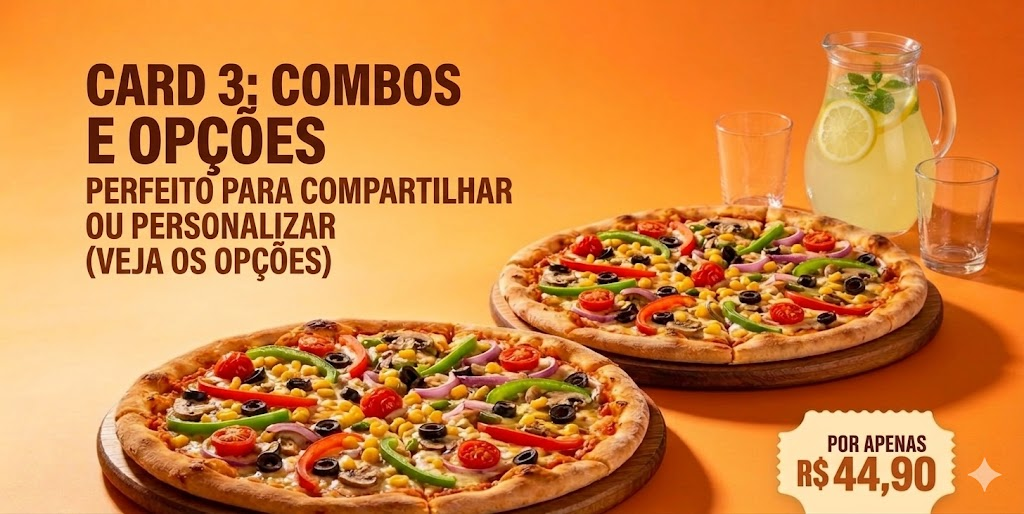
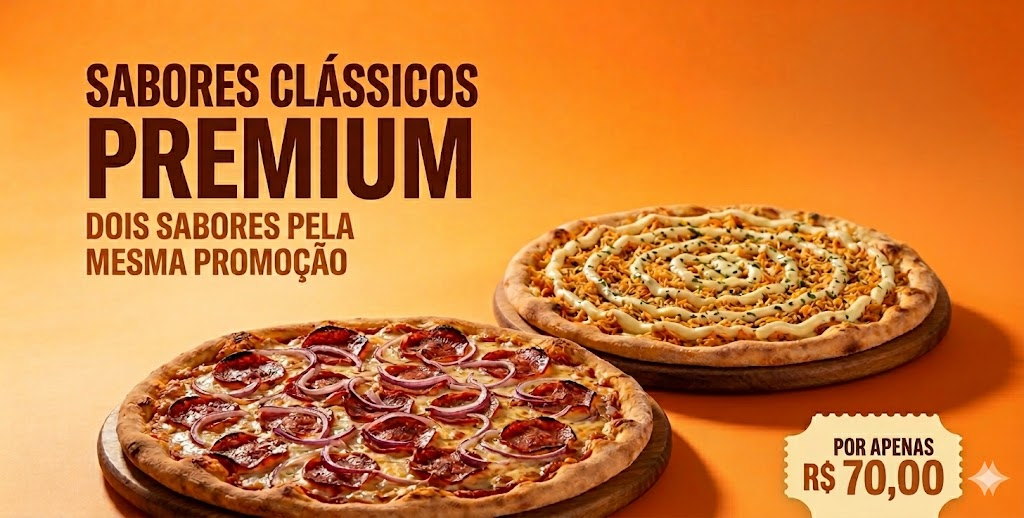
Site pronto.

diff --git a/index.html b/index.html
@@ -4,6 +4,7 @@
 <meta charset="UTF-8">
 <meta name="viewport" content="width=device-width, initial-scale=1.0">
 <title>Pizzaria</title>
+<link href="https://fonts.googleapis.com/css2?family=Italianno&display=swap" rel="stylesheet">
 
 <style>
 *{
@@ -18,14 +19,42 @@ body{
 }
 
 header{
-    background:#d62828;
+    background: linear-gradient(135deg, #d62828 0%, #f0711f 100%);
     color:white;
+    display:flex;
+    align-items:center;
+    justify-content:center;
+    gap:14px;
     text-align:center;
-    padding:20px;
+    padding:24px 20px;
+    box-shadow: inset 0 -5px 20px rgba(0,0,0,0.18);
+    position:relative;
+    overflow:hidden;
+}
+
+header::before{
+    content:'';
+    position:absolute;
+    inset:0;
+    background: radial-gradient(circle at 20% 20%, rgba(255,255,255,0.18), transparent 24%),
+                radial-gradient(circle at 80% 30%, rgba(255,255,255,0.12), transparent 20%);
+    pointer-events:none;
+}
+
+header img{
+    width:160px;
+    height:auto;
+    object-fit:contain;
+    z-index:1;
 }
 
 header h1{
-    font-size:2rem;
+    font-family:'Italianno', cursive;
+    font-size:4.4rem;
+    margin:0;
+    letter-spacing:0.04em;
+    text-shadow: 0 3px 10px rgba(0,0,0,0.35);
+    z-index:1;
 }
 
 /* CARROSSEL */
@@ -301,17 +330,17 @@ header h1{
 <body>
 
 <header>
-    <h1>🍕 A Arte da Pizza</h1>
+   <img src="images/logopizzaria.png"> <h1> A Arte da Pizza</h1>
 </header>
 
 <div class="photo-carousel-container">
     <button class="photo-arrow photo-prev" onclick="movePhoto(-1)">&#8249;</button>
     <button class="photo-arrow photo-next" onclick="movePhoto(1)">&#8250;</button>
     <div class="photo-carousel">
-        <div class="photo-card" onclick="openModal('Foto 1', 'R$ 00,00', 'images/card1.png', 'Foto colorida da massa crocante e queijo derretido.')" style="background-image: url('images/card1.png');"></div>
-        <div class="photo-card" onclick="openModal('Foto 2', 'R$ 00,00', 'images/card2.png', 'Imagem do forno a lenha com pizza recém saída, ainda fumegante.')" style="background-image: url('images/card2.png');"></div>
-        <div class="photo-card" onclick="openModal('Foto 3', 'R$ 00,00', 'images/card3.png', 'Close na borda dourada e cobertura suculenta com queijo extra.')" style="background-image: url('images/card3.png');"></div>
-        <div class="photo-card" onclick="openModal('Foto 4', 'R$ 00,00', 'images/card4.png', 'Foto da pizza inteira, pronta para servir e compartilhar.')" style="background-image: url('images/card4.png');"></div>
+        <div class="photo-card" onclick="openModal('Foto 1', 'R$ 49,90', 'images/card1.png', 'Escolha 2 pizzas clássicas de tamanho médio e pague apenas 49,90!!')" style="background-image: url('images/card1.png');"></div>
+        <div class="photo-card" onclick="openModal('Foto 2', 'R$ 54,90', 'images/card2.png', 'Escolha 2 pizzas clássicas médias e 1 opção de bebida de 1L e pague apenas 54,90!!')" style="background-image: url('images/card2.png');"></div>
+        <div class="photo-card" onclick="openModal('Foto 3', 'R$ 49,90', 'images/card3.png', 'Escolha 1 opção de pizza grande vegetariana e 1 opção de bebida de 1L e pague apenas R$ 49,90!!')" style="background-image: url('images/card3.png');"></div>
+        <div class="photo-card" onclick="openModal('Foto 4', 'R$ 70,00', 'images/card4.png', 'Escolha 2 opções de pizza grande clássicas e pague apenas R$ 70,00!!')" style="background-image: url('images/card4.png');"></div>
     </div>
 </div>
 
@@ -378,75 +407,75 @@ header h1{
 </div>
 
 <div class="options-grid">
-    <div class="big-card" onclick="openModal('Pizza Especial', 'R$ 29,90', 'images/pizza-especial.jpg', 'Queijo extra, pepperoni crocante e manjericão fresco para uma experiência saborosa.')">
-        <div class="big-image">ESPECIAL</div>
+    <div class="big-card" onclick="openModal('Pizza Vegana', 'R$ 29,90', 'images/pizzavegana.png', 'Opção perfeita para os amantes de pizza que buscam uma alternativa sem ingredientes de origem animal, com sabor incrível e ingredientes frescos.')">
+        <div class="big-image" style="background-image: url('images/pizzavegana.png'); background-size: cover; background-position: center;"></div>
         <div class="big-info">
-            <h3>Pizza Especial</h3>
+            <h3>Pizza Vegana</h3>
             <p>Queijo extra, pepperoni crocante e manjericão fresco para uma experiência saborosa.</p>
             <div class="price">R$ 29,90</div>
         </div>
     </div>
 
-    <div class="big-card" onclick="openModal('Pizza Suprema', 'R$ 34,90', 'images/pizza-suprema.jpg', 'Cobertura completa com calabresa, cebola, pimentão e azeitonas.')">
-        <div class="big-image">SUPREMA</div>
+    <div class="big-card" onclick="openModal('Pizza de estrogonofe', 'R$ 55,90', 'images/pizzaestrogonofe.png', 'Massa crocante coberta com estrogonofe de carne, queijo e um toque de creme de leite, uma combinação surpreendente e deliciosa.')">
+        <div class="big-image" style="background-image: url('images/pizzaestrogonofe.png'); background-size: cover; background-position: center;"></div>
         <div class="big-info">
-            <h3>Pizza Suprema</h3>
-            <p>Cobertura completa com calabresa, cebola, pimentão e azeitonas.</p>
-            <div class="price">R$ 34,90</div>
+            <h3>Pizza de estrogonofe</h3>
+            <p>Massa crocante coberta com estrogonofe de carne, queijo e um toque de creme de leite, uma combinação surpreendente e deliciosa.</p>
+            <div class="price">R$ 55,90</div>
         </div>
     </div>
 
-    <div class="big-card" onclick="openModal('Pizza Portuguesa', 'R$ 32,90', 'images/pizza-portuguesa.jpg', 'Presunto, ovos, ervilhas e queijo, perfeita para quem não abre mão de sabor clássico.')">
-        <div class="big-image">PORTUGUESA</div>
+    <div class="big-card" onclick="openModal('Pizza Sushi', 'R$ 64,90', 'images/pizzasushi.png', 'Pizza feita de sushi, com arroz temperado, peixe fresco, algas e um toque de wasabi, uma fusão criativa entre a culinária italiana e japonesa.')">
+        <div class="big-image" style="background-image: url('images/pizzasushi.png'); background-size: cover; background-position: center;"></div>
         <div class="big-info">
-            <h3>Pizza Portuguesa</h3>
-            <p>Presunto, ovos, ervilhas e queijo, perfeita para quem não abre mão de sabor clássico.</p>
-            <div class="price">R$ 32,90</div>
+            <h3>Pizza Sushi</h3>
+            <p> Pizza feita de sushi, com arroz temperado, peixe fresco, algas e um toque de wasabi, uma fusão criativa entre a culinária italiana e japonesa.</p>
+            <div class="price">R$ 64,90</div>
         </div>
     </div>
 
-    <div class="big-card" onclick="openModal('Pizza Veggie', 'R$ 28,90', 'images/pizza-veggie.jpg', 'Legumes grelhados, tomate seco e queijo mozzarella para uma escolha leve e saborosa.')">
-        <div class="big-image">VEGGIE</div>
+    <div class="big-card" onclick="openModal('Pizza ramen', 'R$ 40,90', 'images/pizzaramen.png', 'Pizza de ramen, com massa crocante coberta por um caldo saboroso, noodles, carne suculenta e vegetais frescos, uma combinação única que une a tradição da pizza com a riqueza do ramen.')">
+        <div class="big-image" style="background-image: url('images/pizzaramen.png'); background-size: cover; background-position: center;"></div>
         <div class="big-info">
-            <h3>Pizza Veggie</h3>
-            <p>Legumes grelhados, tomate seco e queijo mozzarella para uma escolha leve e saborosa.</p>
-            <div class="price">R$ 28,90</div>
+            <h3>Pizza ramen</h3>
+            <p>Pizza de ramen, com massa crocante coberta por um caldo saboroso, noodles, carne suculenta e vegetais frescos, uma combinação única que une a tradição da pizza com a riqueza do ramen.</p>
+            <div class="price">R$ 40,90</div>
         </div>
     </div>
 
-    <div class="big-card" onclick="openModal('Pizza Quatro Queijos', 'R$ 30,90', 'images/pizza-quatro-queijos.jpg', 'Mozzarella, gorgonzola, parmesão e catupiry, cremosa e irresistível.')">
-        <div class="big-image">4 QUEIJOS</div>
+    <div class="big-card" onclick="openModal('Pizza cinco Queijos', 'R$ 50,90', 'images/pizza5queijos.png', 'Pizza cinco queijos, com uma combinação irresistível de mozzarella, gorgonzola, parmesão, catupiry e provolone, com azeitonas, para os que buscam uma experiência saborosa e cremosa.')">
+        <div class="big-image" style="background-image: url('images/pizza5queijos.png'); background-size: cover; background-position: center;"></div>
         <div class="big-info">
-            <h3>Pizza Quatro Queijos</h3>
+            <h3>Pizza Cinco Queijos</h3>
             <p>Mozzarella, gorgonzola, parmesão e catupiry, cremosa e irresistível.</p>
-            <div class="price">R$ 30,90</div>
+            <div class="price">R$ 50,90</div>
         </div>
     </div>
 
-    <div class="big-card" onclick="openModal('Pizza Frango com Catupiry', 'R$ 31,90', 'images/pizza-frango-catupiry.jpg', 'Frango desfiado, catupiry e ervas finas, um clássico adorado por todos.')">
-        <div class="big-image">FRANGO</div>
+    <div class="big-card" onclick="openModal('Pizza Frango com Catupiry', 'R$ 39,90', 'images/pizzafrangocatupiry.png', 'Frango desfiado, catupiry e ervas finas, um clássico adorado por todos.')">
+        <div class="big-image" style="background-image: url('images/pizzafrangocatupiry.png'); background-size: cover; background-position: center;"></div>
         <div class="big-info">
             <h3>Pizza Frango com Catupiry</h3>
             <p>Frango desfiado, catupiry e ervas finas, um clássico adorado por todos.</p>
-            <div class="price">R$ 31,90</div>
+            <div class="price">R$ 39,90</div>
         </div>
     </div>
 
-    <div class="big-card" onclick="openModal('Pizza Pepperoni', 'R$ 33,90', 'images/pizza-pepperoni.jpg', 'Cobertura generosa de pepperoni picante com queijo extra derretido.')">
-        <div class="big-image">PEPPERONI</div>
+    <div class="big-card" onclick="openModal('Pizza Pepperoni', 'R$ 49,90', 'images/pizzapepperoni.png', 'Cobertura generosa de pepperoni picante com queijo extra derretido, uma versão alternativa da pizza clássica de calabresa.')">
+        <div class="big-image" style="background-image: url('images/pizzapepperoni.png'); background-size: cover; background-position: center;"></div>
         <div class="big-info">
             <h3>Pizza Pepperoni</h3>
             <p>Cobertura generosa de pepperoni picante com queijo extra derretido.</p>
-            <div class="price">R$ 33,90</div>
+            <div class="price">R$ 49,90</div>
         </div>
     </div>
 
-    <div class="big-card" onclick="openModal('Pizza Calabresa', 'R$ 29,90', 'images/pizza-calabresa.jpg', 'Calabresa fatiada, cebola caramelizada e bastante queijo, sabor tradicional.')">
-        <div class="big-image">CALABRESA</div>
+    <div class="big-card" onclick="openModal('Pizza Picanha ao alho', 'R$ 64,90', 'images/pizzapicanha.png', 'Picanha grelhada, alho e bastante queijo, sabor autêntico.')">
+        <div class="big-image" style="background-image: url('images/pizzapicanha.png'); background-size: cover; background-position: center;"></div>
         <div class="big-info">
-            <h3>Pizza Calabresa</h3>
-            <p>Calabresa fatiada, cebola caramelizada e bastante queijo, sabor tradicional.</p>
-            <div class="price">R$ 29,90</div>
+            <h3>Pizza Picanha ao alho</h3>
+            <p>Picanha grelhada, alho e bastante queijo, sabor autêntico.</p>
+            <div class="price">R$ 64,90</div>
         </div>
     </div>
 </div>